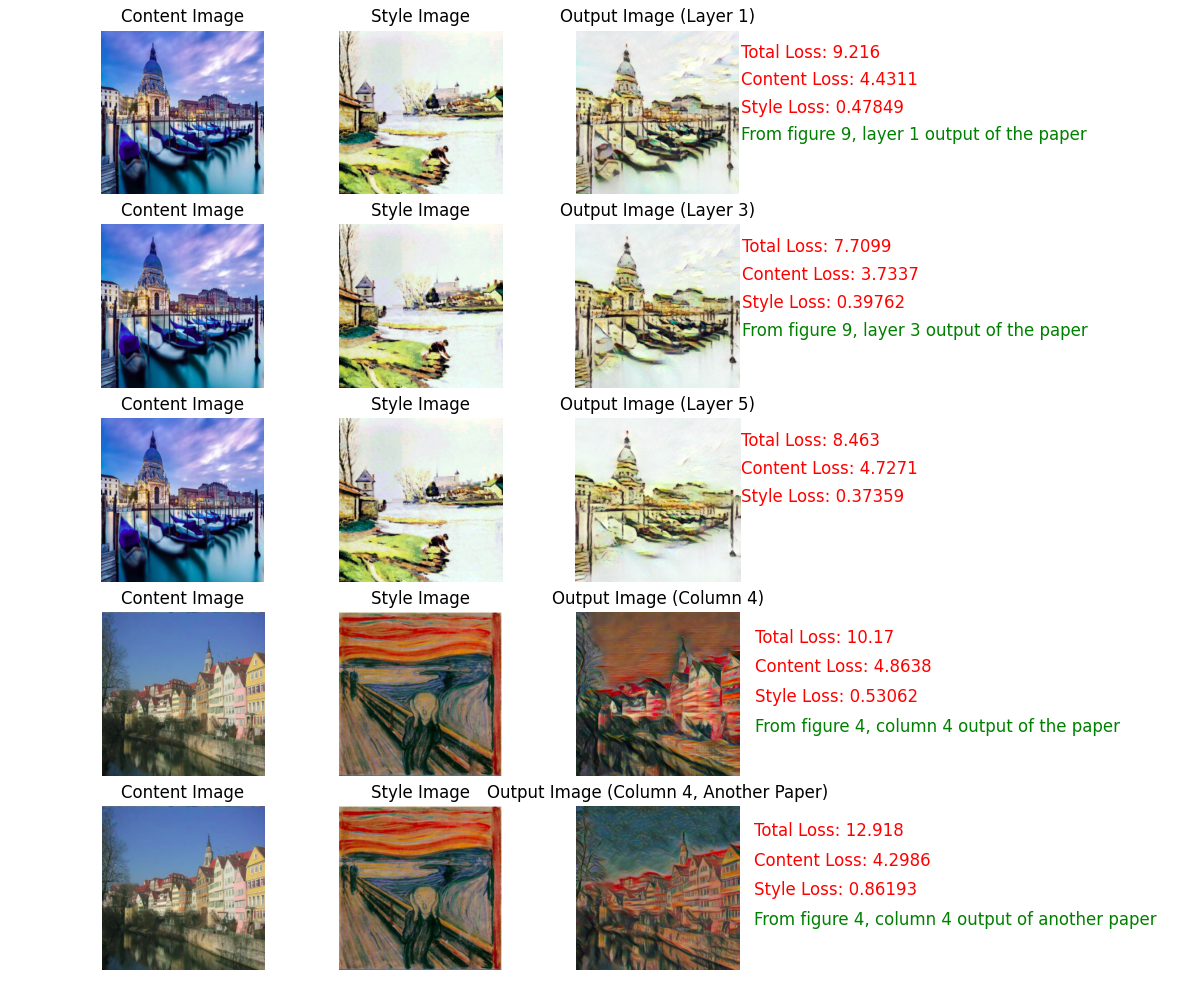
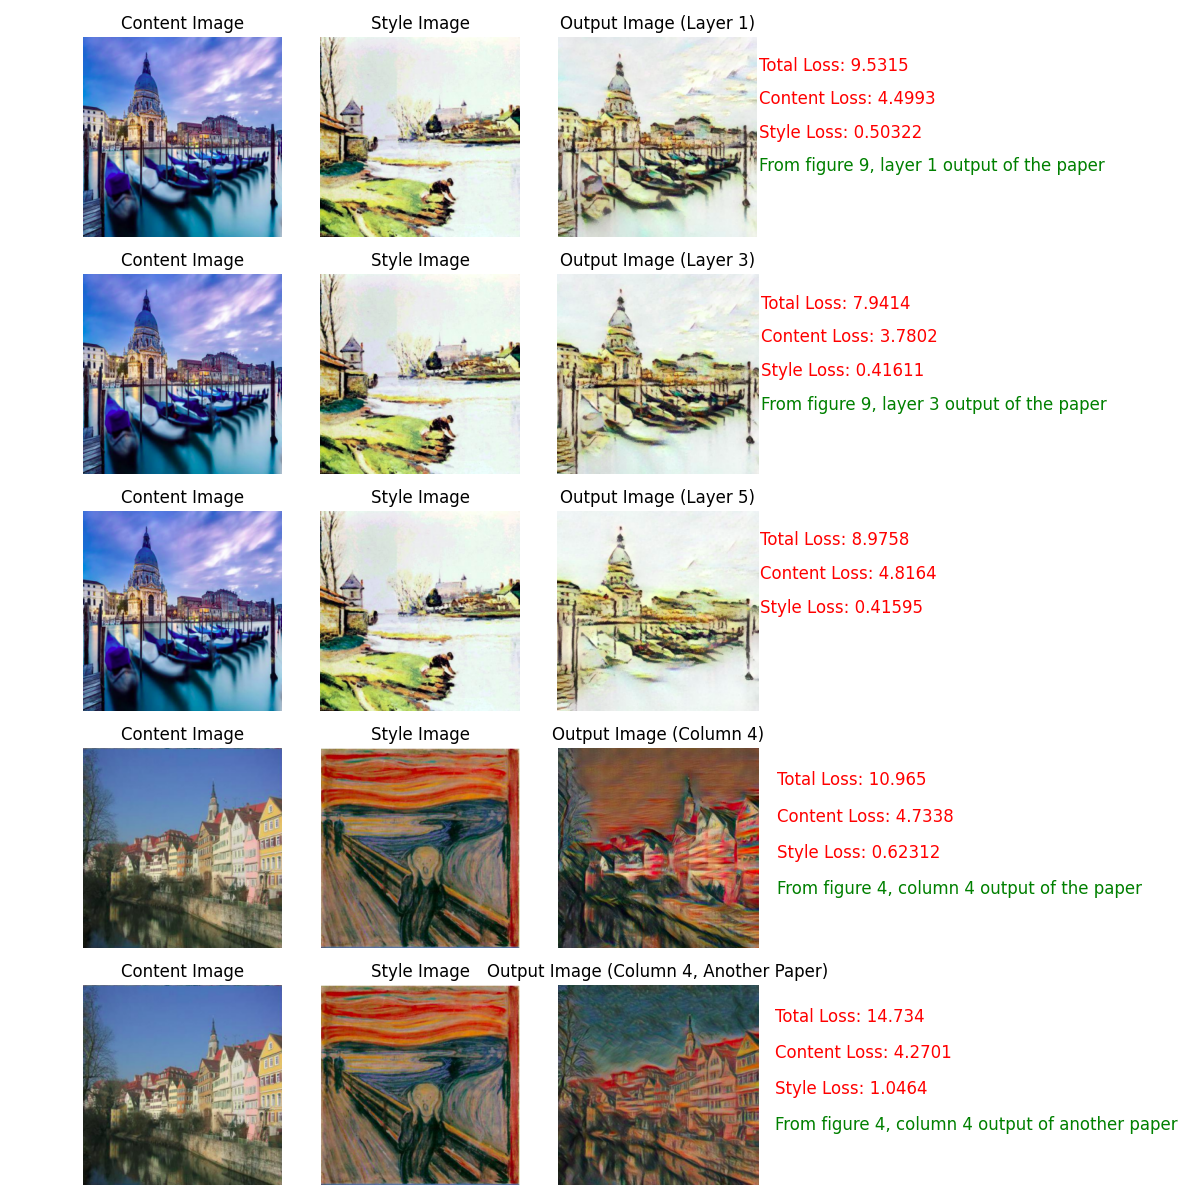
added BGR to RGB transformations to preprocess

Changed region(s): [[0.0617, 0.0, 0.9867, 1.0], [0.3083, 0.0, 0.4008, 0.0305], [0.37, 0.2138, 0.4008, 0.2444]]

diff --git a/codes/get_dataloader.py b/codes/get_dataloader.py
@@ -41,6 +41,9 @@ class coco_train_dataset(Dataset):
         # load image
         img = cv2.imread(self.coco_dataset_images_paths[id])
 
+        # convert the image to RGB
+        img = cv2.cvtColor(img, cv2.COLOR_BGR2RGB)
+
         # apply transformations
         img = transform(img)
 
@@ -71,6 +74,9 @@ class wikiart_dataset(Dataset):
     def __getitem__(self, id):
         # load image
         img = cv2.imread(self.wikiart_dataset_images_paths[id])
+
+        # convert the image to RGB
+        img = cv2.cvtColor(img, cv2.COLOR_BGR2RGB)
 
         # apply transformations
         img = transform(img)

diff --git a/codes/loss_function.py b/codes/loss_function.py
@@ -196,6 +196,7 @@ if __name__ == "__main__":
     # define a function to preprocess the image
     def preprocess_image(image):
         image = cv2.resize(image, (256, 256))
+        image = cv2.cvtColor(image, cv2.COLOR_BGR2RGB)
         image = np.transpose(image, (2, 0, 1))
         image = np.expand_dims(image, axis=0)
         image = image / 255
@@ -376,7 +377,7 @@ if __name__ == "__main__":
 
     plt.tight_layout()
 
-    
+
     # save the figure
     fig.savefig("codes/images_to_try_loss_function/losses.png")
 
